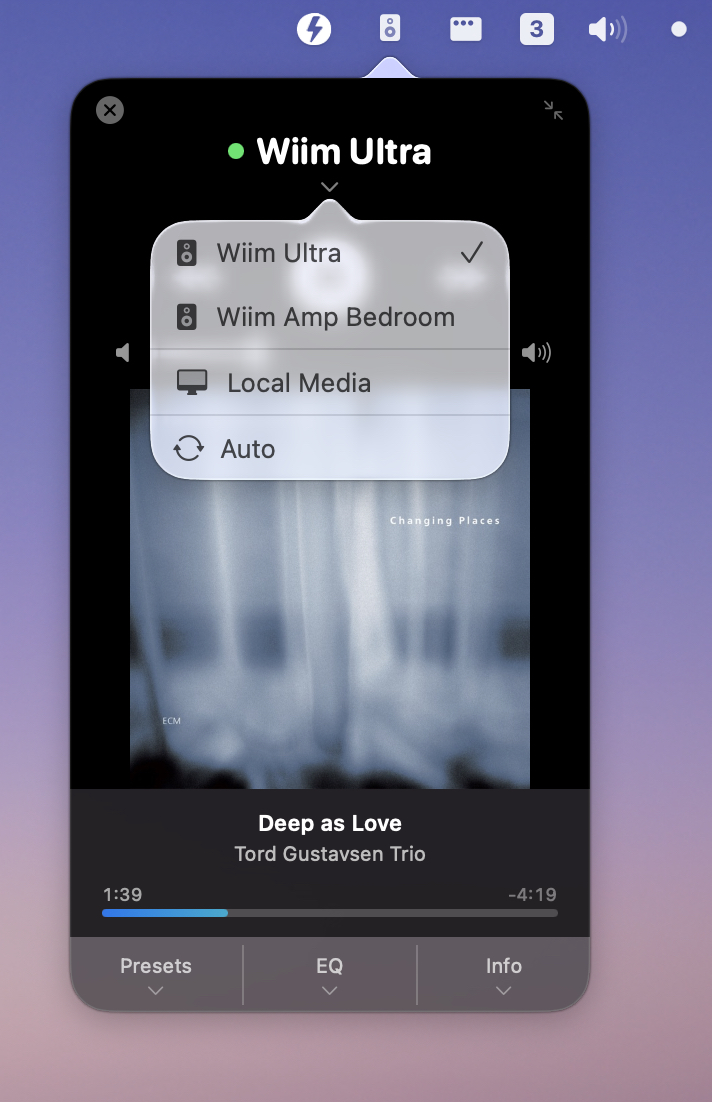
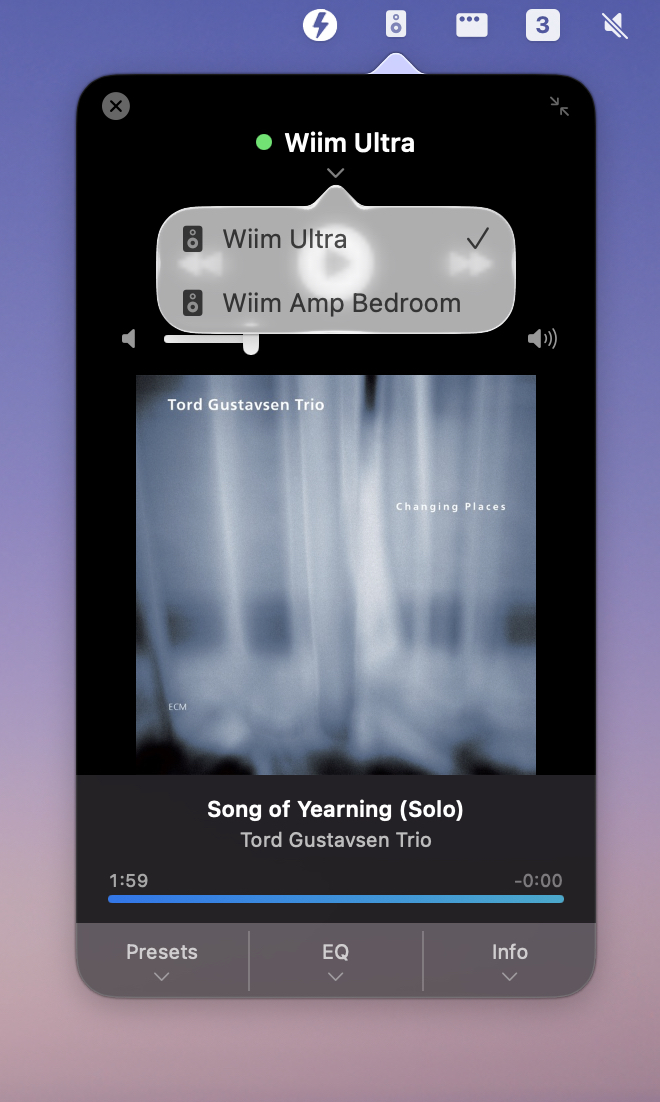
Refine device selector: smaller text, update screenshot
- Reduce device name font size from 18pt bold to 13pt semibold
- Update source-selector screenshot showing multi-device dropdown

diff --git a/WiiMMenuBar/Views/Player/FullModeView.swift b/WiiMMenuBar/Views/Player/FullModeView.swift
@@ -122,7 +122,7 @@ struct FullModeView: View {
 
                 // Show WiiM device name
                 Text(service.deviceName.isEmpty ? "WiiM" : service.deviceName)
-                    .font(.system(size: 18, weight: .bold, design: .rounded))
+                    .font(.system(size: 13, weight: .semibold))
                     .foregroundColor(.white)
             }
             Image(systemName: "chevron.down")
